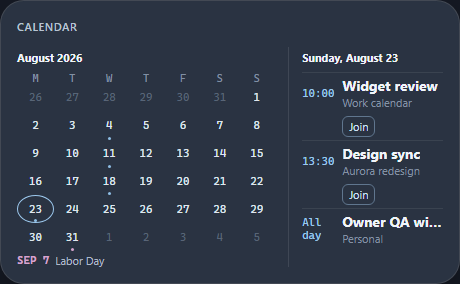
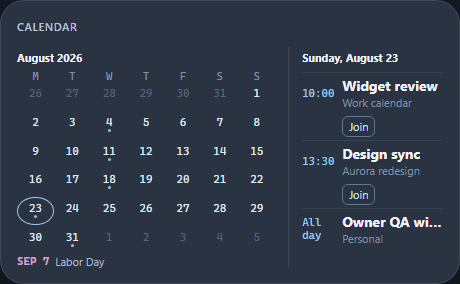
docs: refresh calendar spacing evidence

diff --git a/docs/superpowers/reports/WIDGET-REDESIGN-MOCKUP-QA.md b/docs/superpowers/reports/WIDGET-REDESIGN-MOCKUP-QA.md
@@ -1,6 +1,6 @@
 # Widget Redesign Mockup QA
 
-Source commit: `3603879b2c6ae44b5ed4a215fc9f51f14e81117c`
+Source commit: `5fb9bb16e30c6545842d66dfdb912ab018adfacd`
 Mode: exact
 
 ## Automated evidence

diff --git a/docs/superpowers/catalog/widget-redesign/v1/CATALOG.md b/docs/superpowers/catalog/widget-redesign/v1/CATALOG.md
@@ -1,6 +1,6 @@
 # Aurora Widget Redesign Catalog V1
 
-Source commit: `3603879b2c6ae44b5ed4a215fc9f51f14e81117c`
+Source commit: `5fb9bb16e30c6545842d66dfdb912ab018adfacd`
 
 ## Inventory
 
